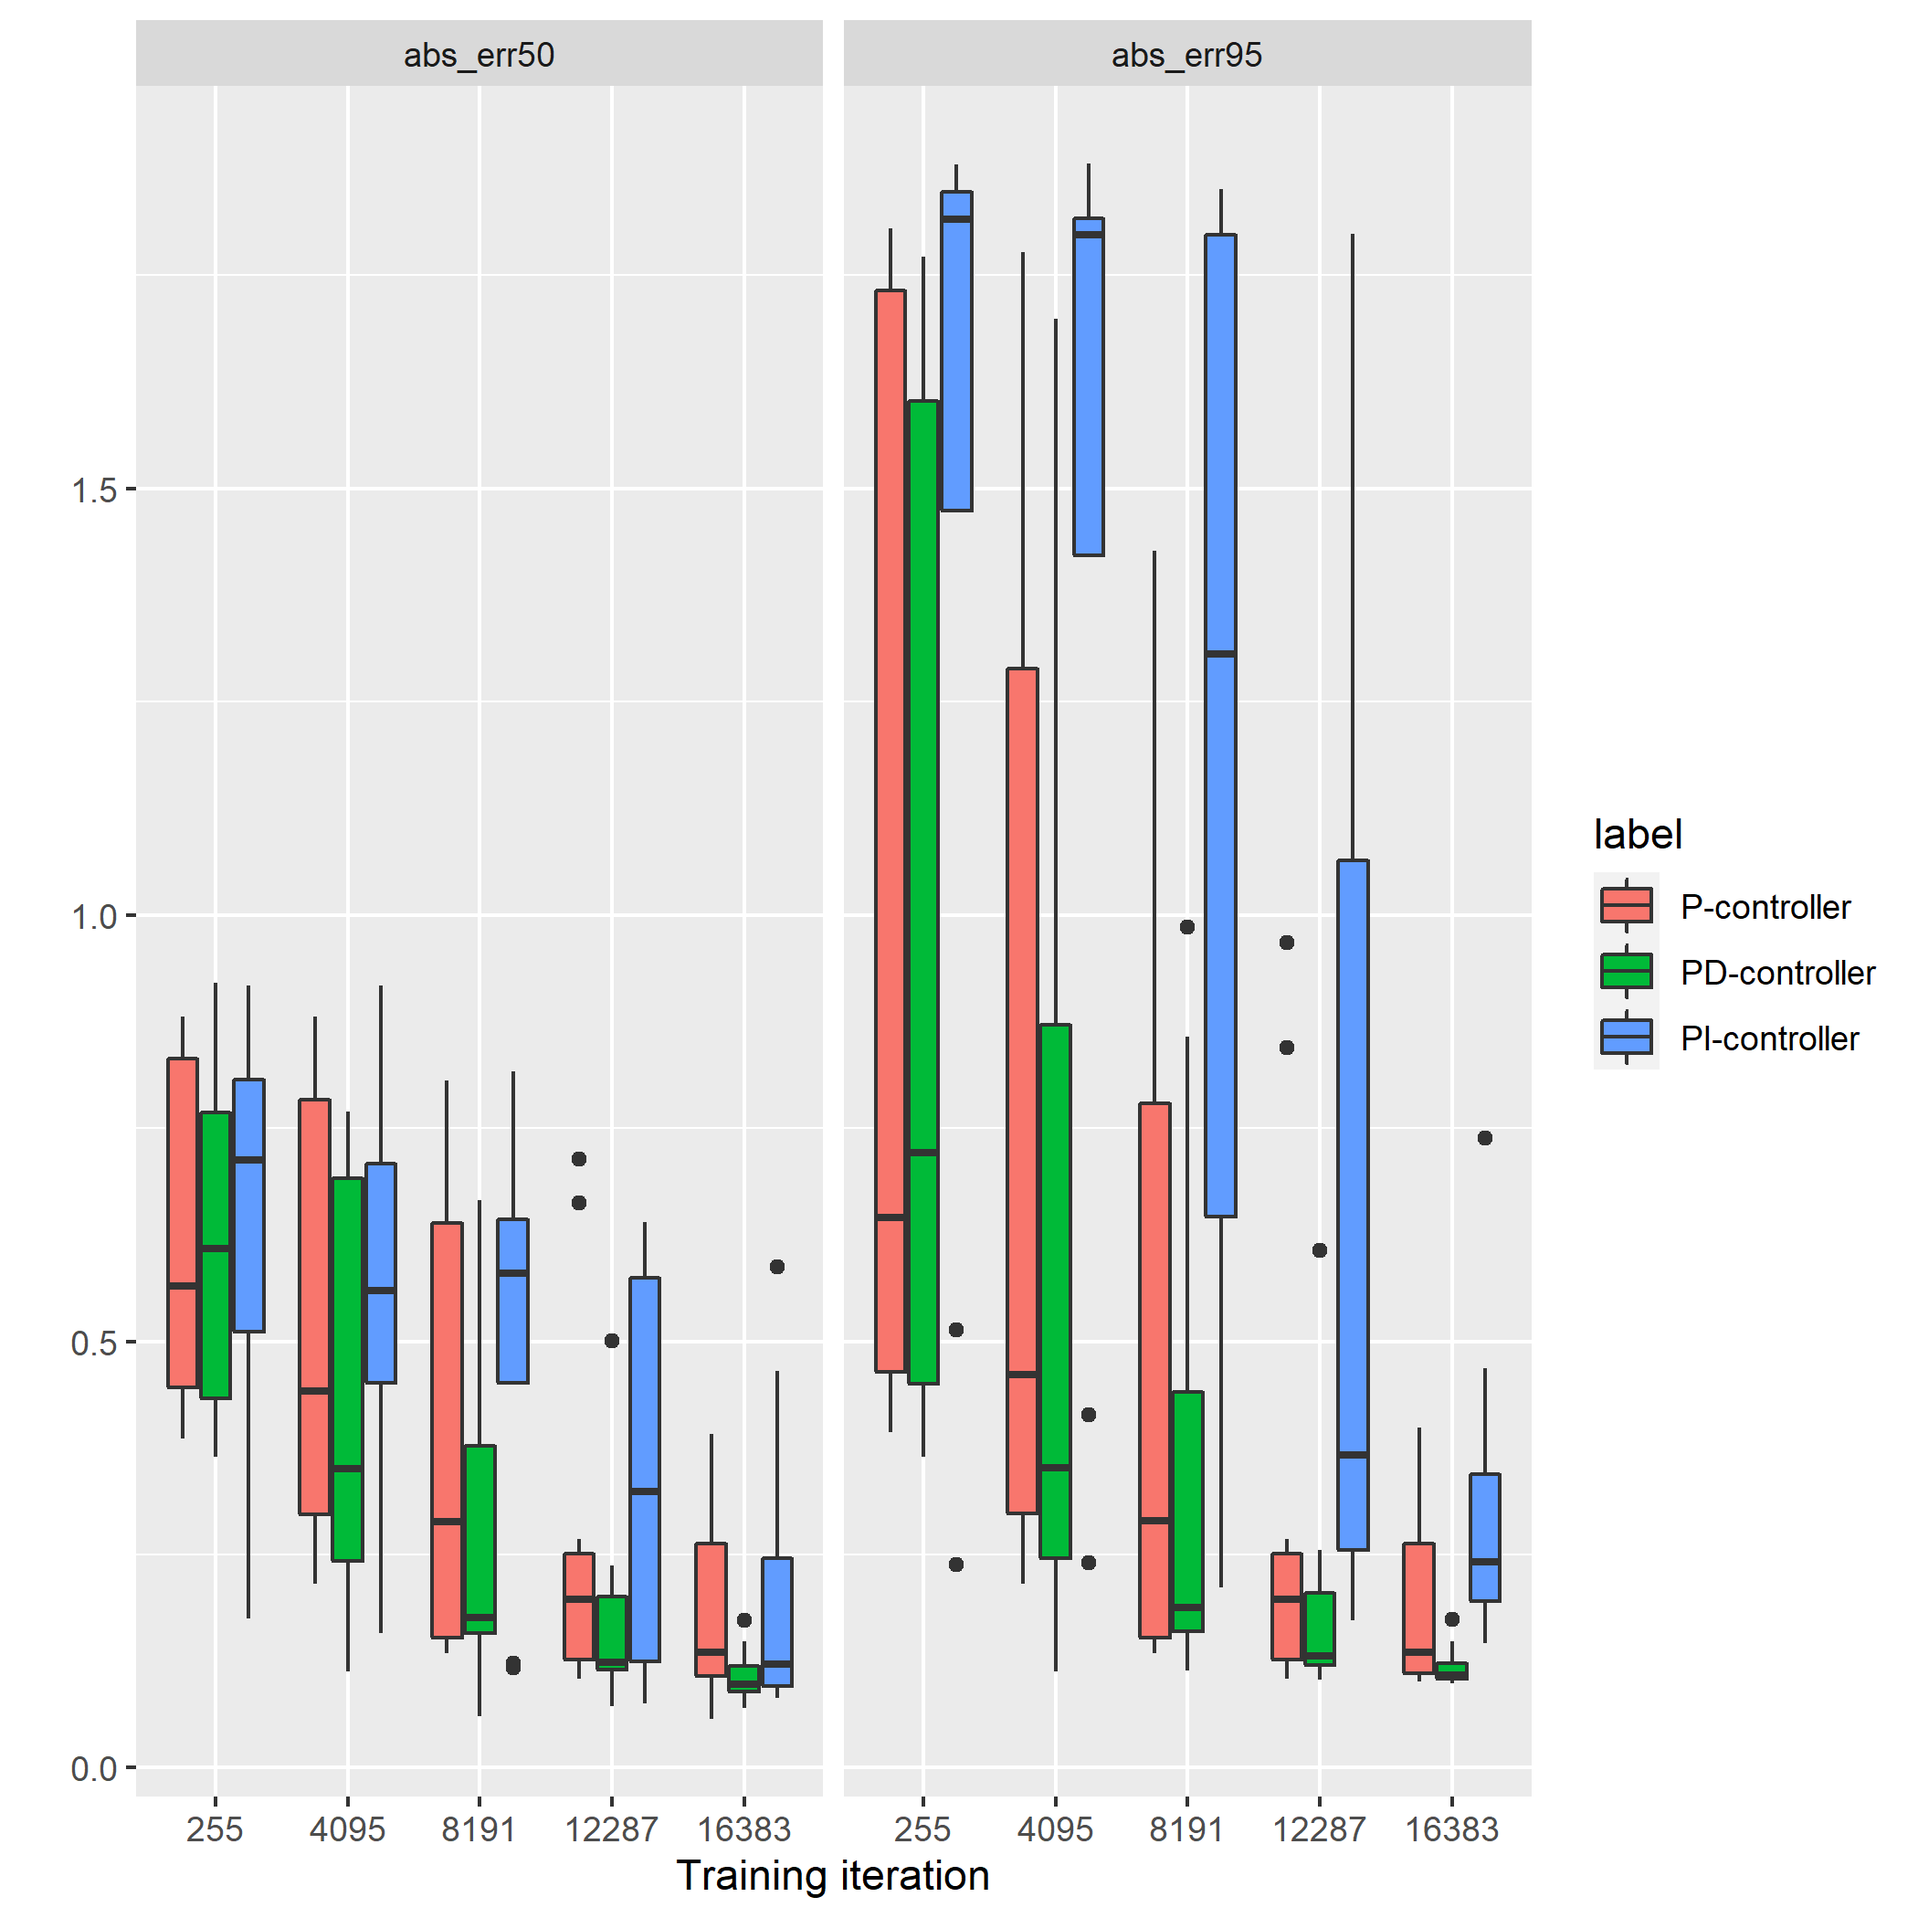
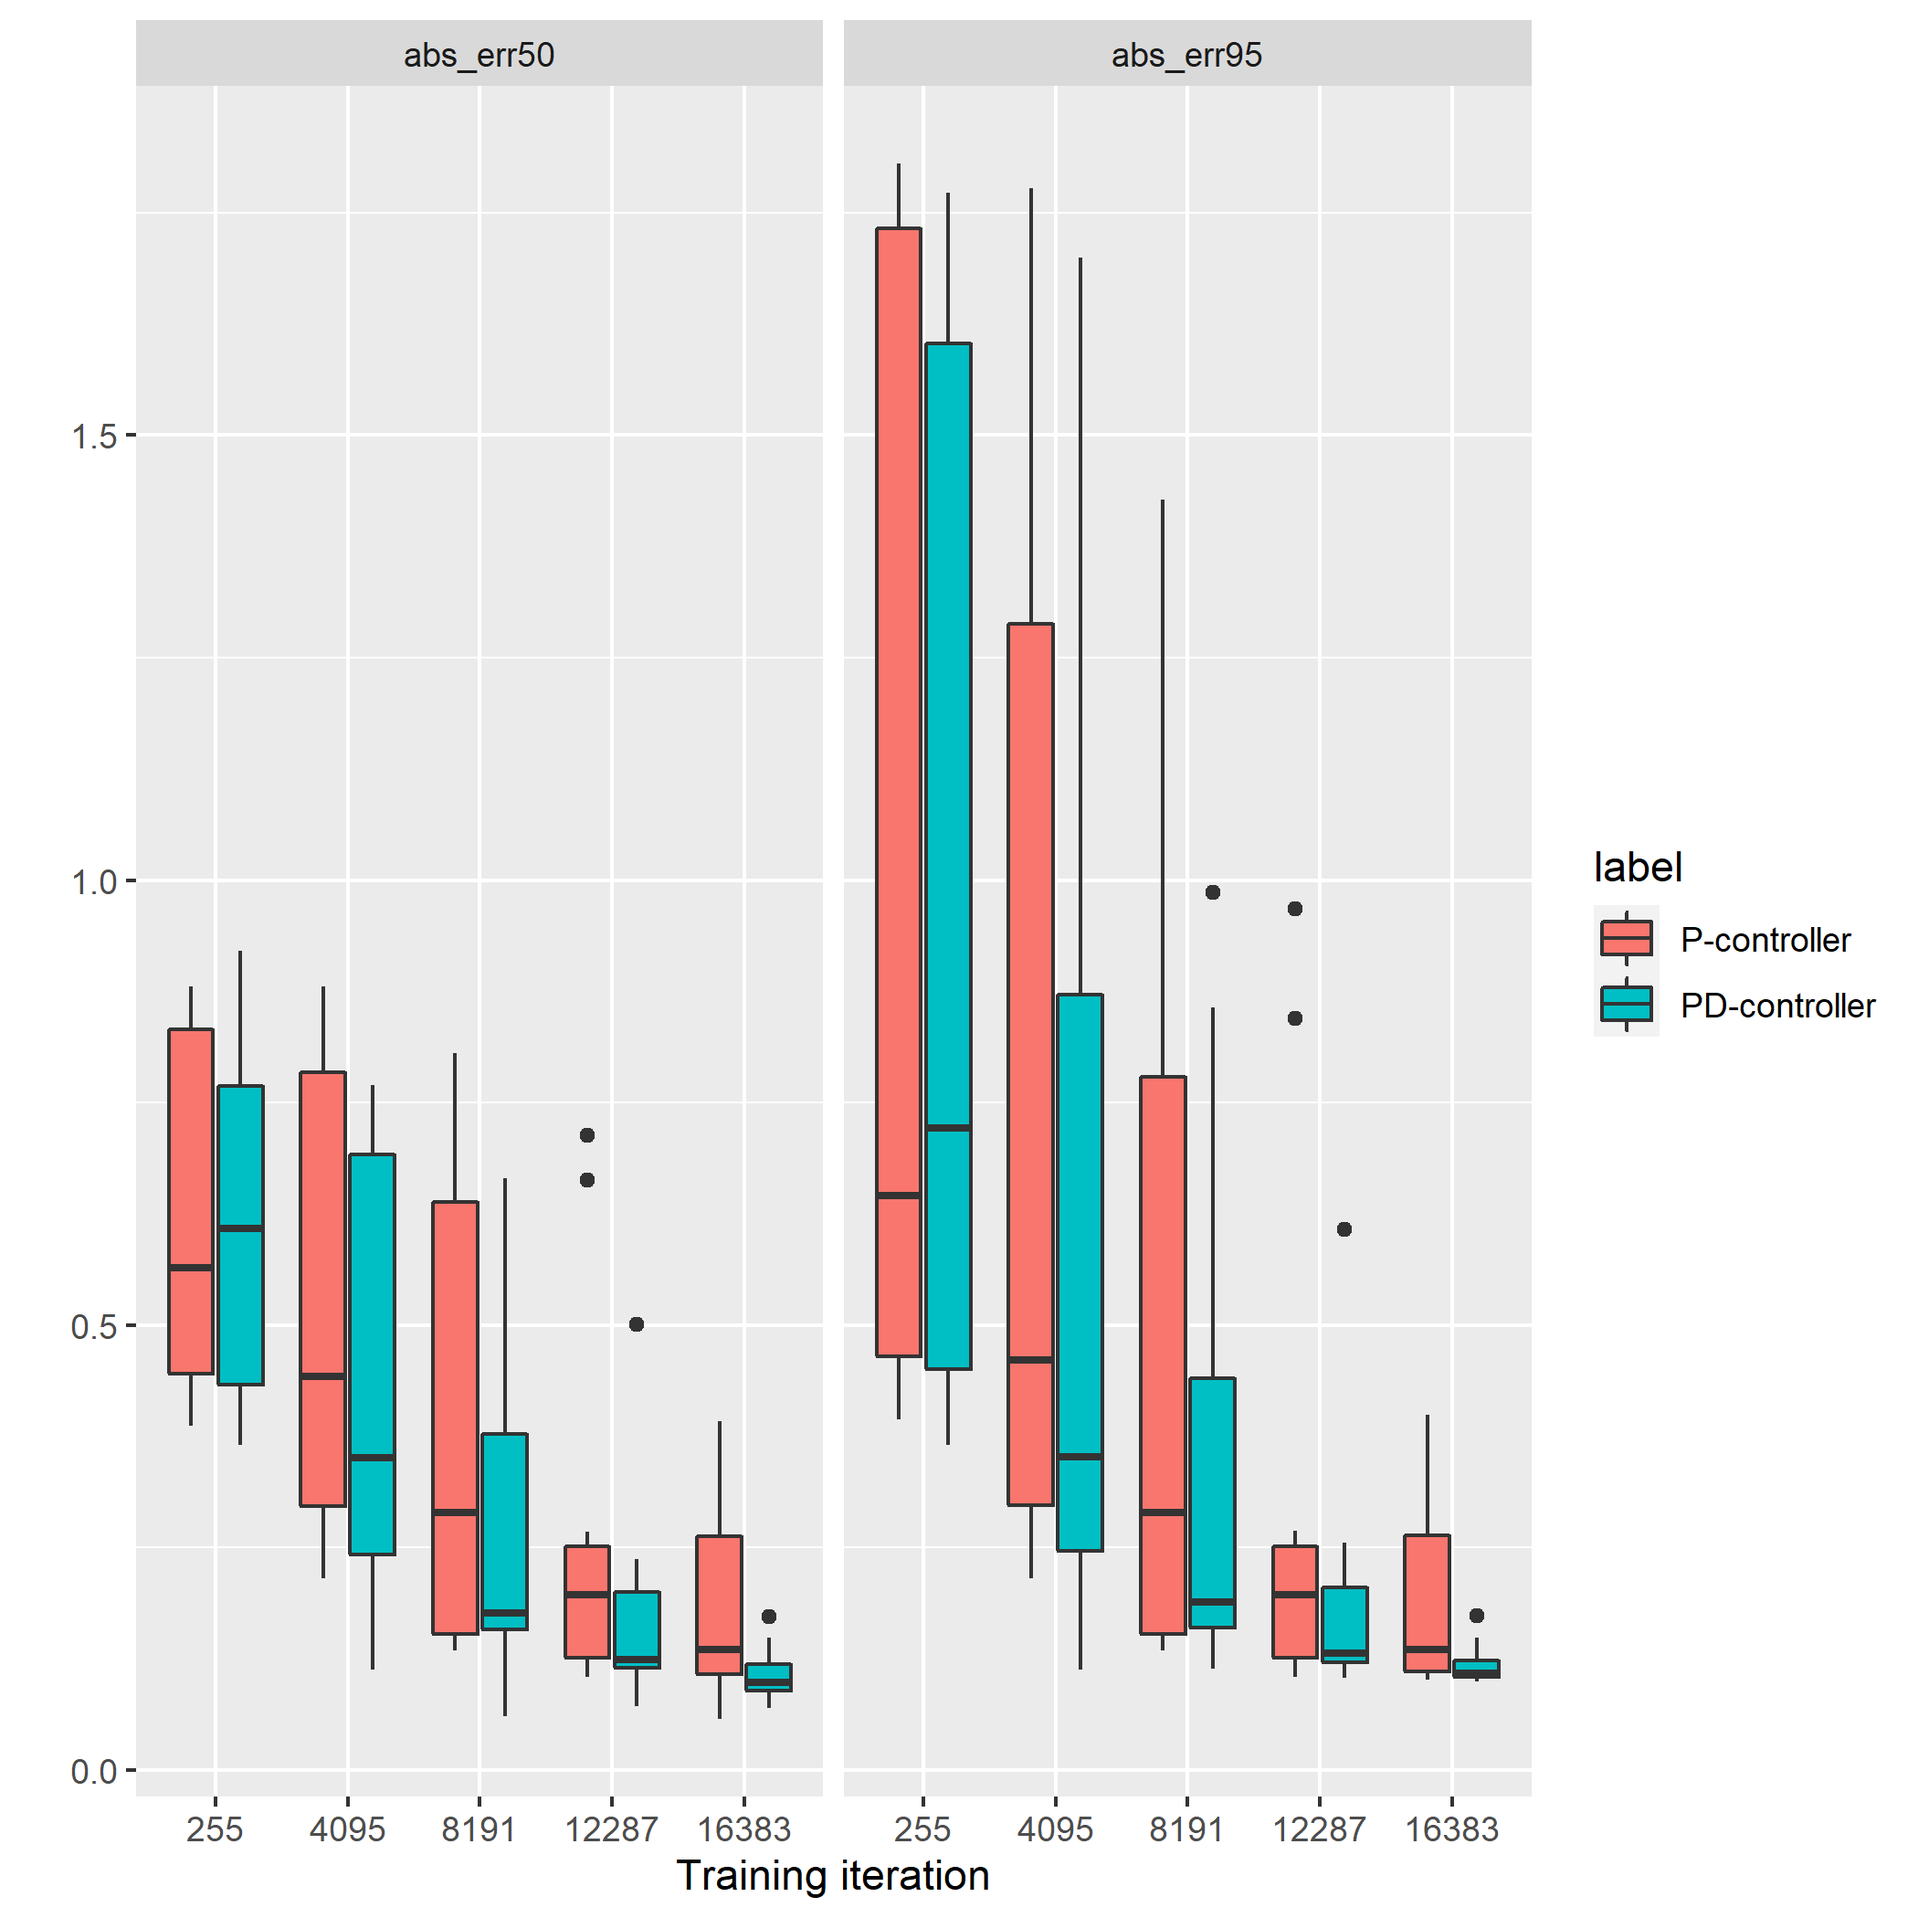
Revised the subsection 4.1(cs1f) and its image

diff --git a/works/work20200621/doc.md b/works/work20200621/doc.md
@@ -35,16 +35,19 @@ The case studies shown in this text are hilighted as follow:
 
 ## 4-1. Case study #1: 
 
-This case study compares the behaviours of systems controlled by P- and PD-controller, respectively.
+This case study compares the behaviours of systems controlled by P- and PD-controller.
 The set of hyper parameters for the reinforcement learning is shown in the table 4.1.1.
-All the parameters used in the training except the parameter to enable the derivative factor are same between the two controllers.
-Around 10 agents of P-controller and PD-controller were trained, respectively, 
-in order to mitigate the uncertainty of trained controller parameters caused by the reinforcement learning.
+All the parameters used in the training except the parameter `agentEnableDcomponent`, 
+which controls using the derivative factor or not, 
+are same between the two controllers.
+Around 10 agents of P-controller and PD-controller were trained 
+in order to mitigate the uncertainty of trained controllers' parameters caused by the reinforcement learning.
 
-The learning curves for the two controllers can be seen in the figure 4.1.1.
-The performance of agent is evaluated by the following measurements of the error caused by the stepwise disturbance:
+The learning curves of performances for the two controllers can be seen in the figure 4.1.1.
+The performances of agent are evaluated by the following features of the error caused by the stepwise disturbance:
 - 95 percentile of the absolute value of the error, of which the value approximates the peak absolute value of the error except outliers
 - and 50 percentile of the absolute value of the error, of which the value approximates the average absolute value of the error except outliers.
+
 It's confirmed that the performances for the two controllers have been enough converged after the training iteration.
 
 The figure 4.1.2 shows the simulation results of the two systems, the one controlled by a trained P-controller
